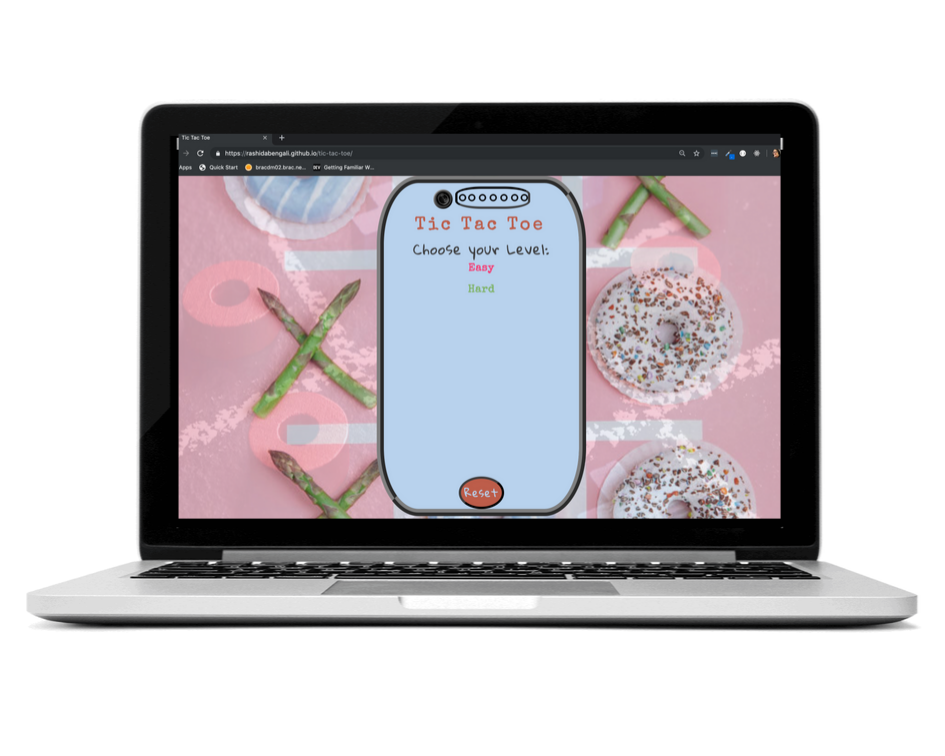
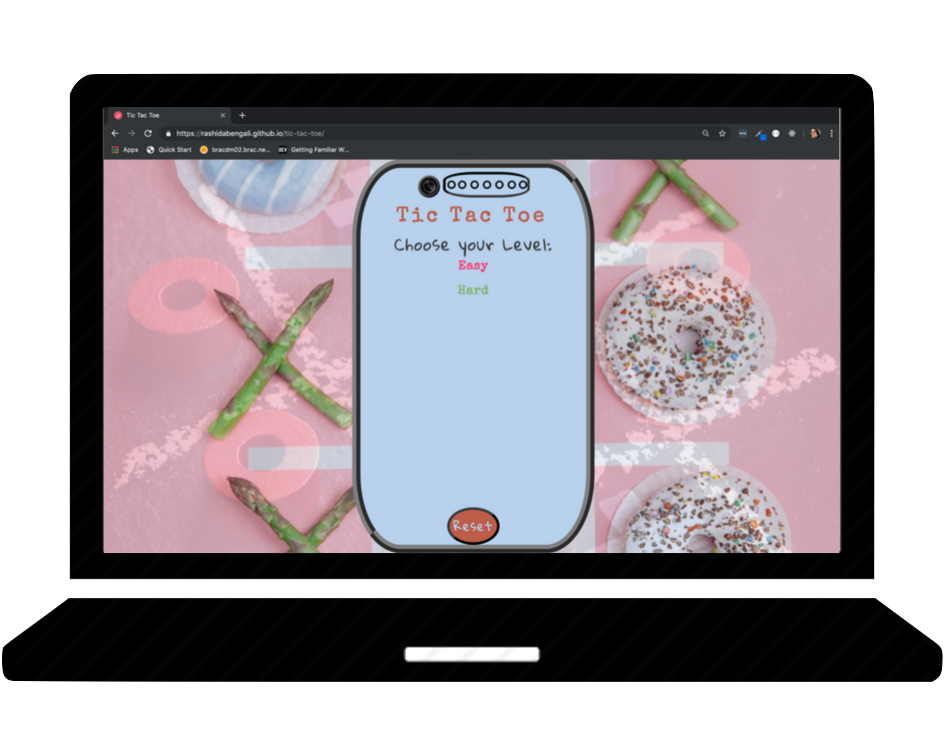
changed work section images

diff --git a/index.html b/index.html
@@ -24,9 +24,18 @@
     <a id="scroll-contact" href="#contact">Contact Me <i class="fa fa-sms nav-icon"></i></a>
   </nav>
 
+  <!-- <nav class="zone sticky">
+    <ul class="main-nav">
+      <li><a id="scroll-about" href="#about">About Me <i class="fa fa-id-card nav-icon"></i></a></li>
+      <li><a id="scroll-work" href="#work">My Work <i class="fa fa-laptop-code nav-icon"></i></a></li>
+      <li><a id="scroll-skills" href="#skills">My Skills <i class="fa fa-file-code nav-icon"></i></a></li>
+      <li><a id="scroll-contact" href="#contact">Contact Me <i class="fa fa-sms nav-icon"></i></a></li>
+    </ul>
+  </nav> -->
+
   <header class="parallax-window zone" data-parallax="scroll" data-image-src="images/laptop-journal.jpg">
     <div class="coverText zone">
-      <h1>Rashida Bengali</h1>
+      <h1 class="animated fadeInDown">Rashida Bengali</h1>
       <h3>Full Stack Developer</h3>
     </div>
   </header>
@@ -42,14 +51,14 @@
 
     <aside>
       <h2 class="animated-heading zone">Hobbies</h2>
-      <p>I have the <span style="color:Chocolate">travel</span> bug
+      <p>I have the <span>travel</span> bug
         <br>
         Love to explore new places and people and their food and culture. It increases my knowledge and broadens my worldview and acceptance toward others
       </p>
-      <p>A pro <span style="color:Chocolate">Event Planner</span>
+      <p>A pro <span>Event Planner</span>
         <br>
         Fond of hosting and organizing social gatherings and work events with utmost perfection and delight</p>
-      <p><span style="color:Chocolate">BEWARE!</span> My positivity and enthusiasm is contagious</p>
+      <p><span>BEWARE!</span> My positivity and enthusiasm is contagious</p>
     </aside>
 
   </div>
@@ -57,56 +66,57 @@
   <div class="zone blue grid-wrapper" id="work">
 
     <div class="card zone">
-      <img class="projectsimg" src="images/tictactoe.png" alt="Tic Tac Toe">
+      <img class="projectsimg" src="images/laptopimg.png" alt="Tic Tac Toe">
       <div class="overlay animated fadeInDown">
         <a class="zone" href="https://rashidabengali.github.io/tic-tac-toe/" target="_blank">DEMO</a>
         <a class="zone" href="https://github.com/rashidabengali/tic-tac-toe" target="_blank">CODE</a>
-      </div>
-      <div class="text">
-        <h4>TIC TAC TOE</h4>
-        <p>A simple yet fun game to be played between two players. This game is built using <span>HTML5</span>, <span>CSS3</span>, <span>JavaScript</span> and <span>jQuery</span>
-          <br>
-          <br>
-          Play the traditional Paper Pencil Game in an absolutely attractive new way!</p>
+          <br><br>
+          <h4>TIC TAC TOE</h4>
+          <p>A simple yet fun game to be played between two players. This game is built using <span>HTML5</span>, <span>CSS3</span>, <span>JavaScript</span> and <span>jQuery</span>
+          <br><br>Play the traditional Paper Pencil Game in an absolutely attractive new way!</p>
       </div>
     </div>
 
     <div class="card zone">
-      <img class="projectsimg" src="images/home.png" alt="Restaurants on Rails">
+      <img class="projectsimg" src="images/laptop2.png" alt="Restaurants on Rails">
       <div class="overlay animated fadeInDown">
         <a class="zone" href="https://project1-rashida.herokuapp.com/" target="_blank">DEMO</a>
         <a class="zone" href="https://github.com/rashidabengali/Project1" target="_blank">CODE</a>
-      </div>
-      <div class="text">
+        <br><br>
         <h4>Restaurants on Rails</h4>
         <p>It is the new age Restaurant Finder. This application is built using <span>Ruby on Rails</span>, <span>PostgreSQL</span> database connection and has been deployed on <span>Heroku</span>
           <br>
-          <br>
           Click the DEMO link to find out your favourite food place!</p>
       </div>
+      <!-- <div class="text">
+      </div> -->
     </div>
 
     <div class="card zone">
-      <img class="projectsimg" src="images/pamperhome.png" alt="Pamper My Pet">
+      <img class="projectsimg" src="images/laptop3.png" alt="Pamper My Pet">
       <div class="overlay animated fadeInDown">
         <a class="zone" href="https://rashidabengali.github.io/pamper_my_pet/#/" target="_blank">DEMO</a>
         <a class="zone" href="https://github.com/pandyapurvi/pet_shop_react" target="_blank">CODE</a>
-      </div>
-      <div class="text">
+        <br><br>
         <h4>PAMPER MY PET</h4>
+        <br>
         <p>An online shopping site for pet products. This E-Commerce web application uses mainly <span>ReactJS</span> Front-end and <span>Rails</span> Back-end with <span>PostgreSQL</span> as database and has been deployed on <span>Heroku</span></p>
       </div>
+      <!-- <div class="text">
+      </div> -->
     </div>
 
     <div class="card zone">
-      <img class="projectsimg" src="images/home 2.png" alt="Speed Type">
+      <img class="projectsimg" src="images/laptop4.png" alt="Speed Type">
       <div class="overlay animated fadeInDown">
         <a class="zone" href="https://rashidabengali.github.io/speed_type/#/" target="_blank">DEMO</a>
         <a class="zone" href="https://github.com/rashidabengali/speed_type" target="_blank">CODE</a>
-      </div>
-      <div class="text">
-        <h4>SPEED TYPE</h4>
-        <p>A game that will help improve your Typing Speed while making it immensely enjoyable for you to play. This game is built with <span>VueJS </span> as Front-end and <span>Firebase</span> as Back-end</p>
+        <!-- <div class="text"> -->
+          <br><br>
+          <h4>SPEED TYPE</h4>
+          <br>
+          <p>A game that will help improve your Typing Speed while making it immensely enjoyable for you to play. This game is built with <span>VueJS</span> as Front-end and <span>Firebase</span> as Back-end</p>
+        <!-- </div> -->
       </div>
     </div>
 

diff --git a/css/style.css b/css/style.css
@@ -59,6 +59,20 @@ nav {
   padding: 1em;
 }
 
+/* .sticky {
+  position: fixed;
+  z-index: 1;
+  top: 0;
+  width: 100%;
+} */
+
+/* .main-nav, #social {
+    display: flex;
+    list-style: none;
+    margin: 0;
+    font-size: 0.7em;
+} */
+
 .nav-icon {
   padding: 0.5em;
   font-size: 1em;
@@ -74,6 +88,7 @@ nav a {
   display: inline-block;
   transition-duration: 2s;
   transition: all 0.5s linear;
+  /* transition: all 0.2s ease-in-out; */
 }
 
 nav a:hover {
@@ -183,7 +198,7 @@ main > p, aside > p {
 }
 
 .card {
-    background: rgba(0,0,0,0.4);
+    background: rgba(0,0,0,0.1);
     margin: 20px;
 }
 
@@ -201,16 +216,17 @@ main > p, aside > p {
 
 .card p {
     font-size: 1rem;
-    text-align: left;
+    text-align: justify;
+    text-justify: none;
     padding: 0.5em;
 }
 
-.card > .text {
+/* .card > .text {
     padding: 0 20px 20px;
-}
+} */
 
 .overlay {
-  background:rgba(0,0,0,.7);
+  background:rgba(0,0,0,.8);
   text-decoration: none;
   display: none;
 }
@@ -223,7 +239,7 @@ main > p, aside > p {
   color: white;
   text-decoration: none;
   font-weight: bold;
-  padding-top:33%;
+  padding-top:18%;
   left:0;
   display:inline-block;
   -webkit-box-sizing:border-box;
@@ -259,7 +275,7 @@ span {
 #scroll {
   background: Chocolate;
   font-weight: bold;
-  color: rgba(0, 0, 0, 0.7);
+  color: rgba(0, 0, 0, 0.8);
   font-size: 35px;
   border-radius: 0.15em;
   padding: 0.3em;
@@ -284,8 +300,9 @@ footer {
   /* background: Chocolate; */
 }
 
-li {
+ li {
     padding: 20px;
+    margin: auto;
 }
 
 footer p {
@@ -336,8 +353,9 @@ footer p {
 }
 
 @media only screen and (max-width: 560px) {
+
   nav a {
-    display: block;
+    /* display: block; */
     font-size: 1em;
     padding: 0.2em;
     flex-basis: 0;
@@ -348,8 +366,8 @@ footer p {
     /* display: block; */
     font-size: 0.8em;
     padding: 0.2em;
-    /* flex-basis: 0;
-    flex-grow: 1; */
+    flex-basis: 0;
+    flex-grow: 1;
   }
 
   #social {
@@ -365,7 +383,7 @@ footer p {
 @media (min-width: 560px) and (max-width: 860px) {
 
   nav a {
-    display: block;
+    /* display: block; */
     font-size: 1.2em;
     padding: 0.2em;
     flex-basis: 0;
@@ -376,8 +394,8 @@ footer p {
     /* display: block; */
     font-size: 0.9em;
     padding: 0.2em;
-    /* flex-basis: 0;
-    flex-grow: 1; */
+    flex-basis: 0;
+    flex-grow: 1;
   }
 
   aside {
@@ -391,7 +409,7 @@ footer p {
 
 @media (min-width: 860px) {
   nav a {
-    display: block;
+    /* display: block; */
     font-size: 1.5em;
     padding: 0.2em;
     flex-basis: 0;
